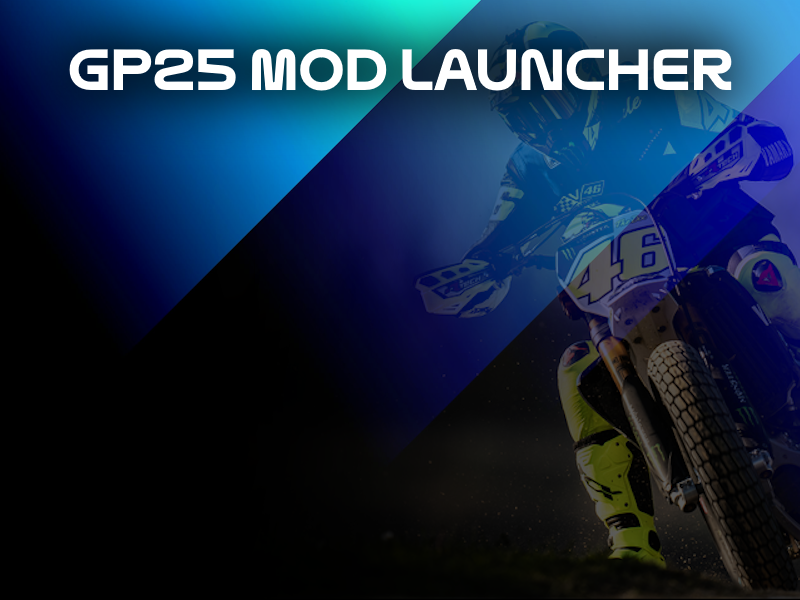
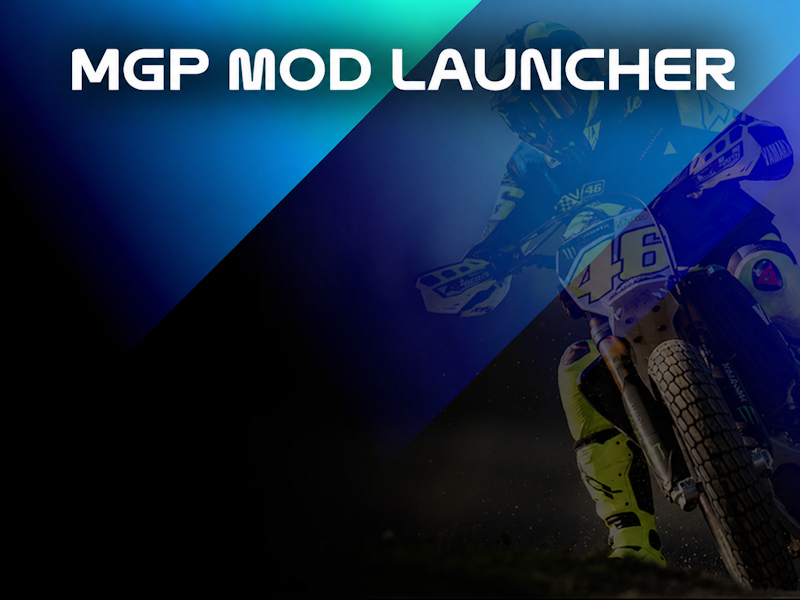
Updated App Name
Updated App Name

diff --git a/MGP 25 Mod Launcher/MainWindow.Designer.cs b/MGP 25 Mod Launcher/MainWindow.Designer.cs
@@ -29,7 +29,6 @@
         private void InitializeComponent()
         {
             createShortcuts = new Button();
-            // New dropdown and label for selecting a game
             selectGameDropdown = new ComboBox();
             selectGameLabel = new Label();
             setGameDirectory = new Button();
@@ -66,6 +65,8 @@
             selectGameDropdown.Size = new Size(311, 36);
             selectGameDropdown.TabIndex = 2;
             selectGameDropdown.SelectedIndexChanged += selectGameDropdown_SelectedIndexChanged;
+            selectGameDropdown.Items.Clear();
+            selectGameDropdown.Items.AddRange(DirConstants.cSupportedGames);
             // 
             // setGameDirectory
             // 
@@ -116,7 +117,7 @@
             FormBorderStyle = FormBorderStyle.FixedSingle;
             MaximizeBox = false;
             Name = "MainWindow";
-            Text = "BIKER's MotoGP 25 Mod Launcher";
+            Text = "BIKER's MotoGP Mod Launcher";
             Load += MainWindow_Load;
             ResumeLayout(false);
         }